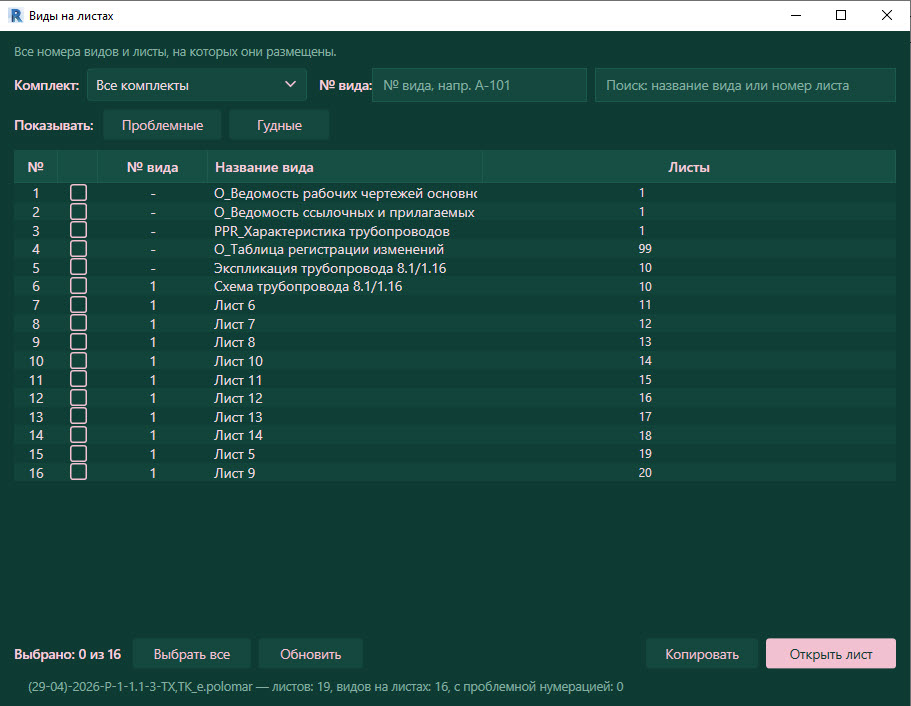
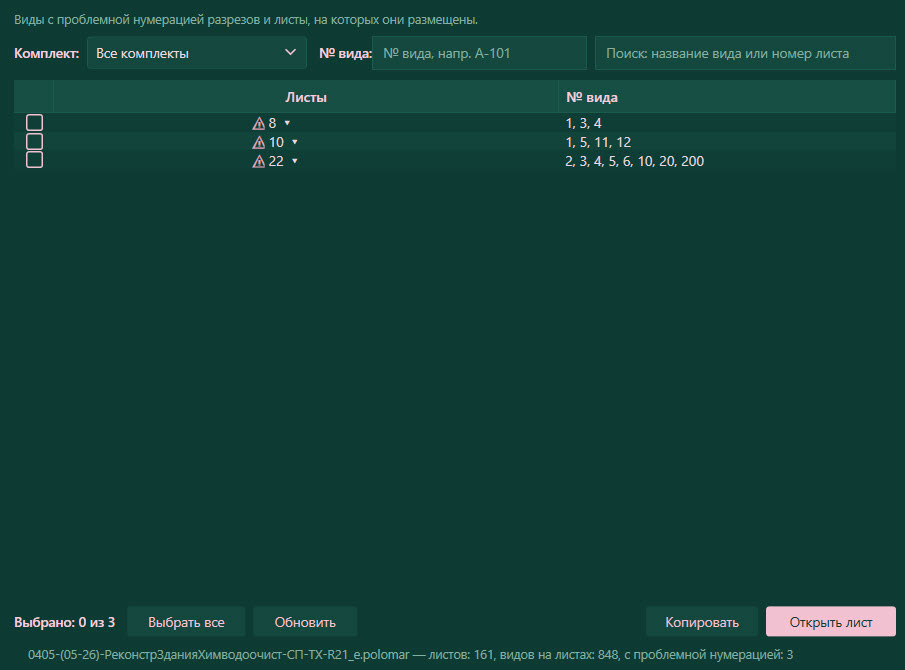
README: new UI screenshot and inherit-elevation toggle states on the ribbon

diff --git a/README.md b/README.md
@@ -4,7 +4,7 @@
 
 ![Интерфейс плагина](SheetViewsMap.jpg)
 
-Пример окна «Виды на листах».
+Окно «Виды на листах»: в таблице — только проблемные листы (`⚠`); у номера каждого листа — стрелка ▾, она раскрывает номера видов, размещённых на этом листе; в колонке «№ вида» — те же номера текстом. Галочками отмечают листы для открытия. Внизу — сводка по модели: сколько листов и видов, сколько с проблемной нумерацией.
 
 Поддерживаемые версии: Revit 2021, 2025.
 
@@ -15,6 +15,10 @@
 - **Настройки** — версия плагина и проверка обновлений с GitHub (обновление скачивается и применяется после закрытия Revit)
 - **Наследовать отметку** — переключатель: держит опцию «Наследовать отметку» на ленте всегда включённой при черчении трубопроводов; состояние сохраняется между сессиями
 - **Открыть окно** — открыть/скрыть окно «Виды на листах»
+
+Так переключатель выглядит на ленте Revit: слева — выключен, справа — включён («: ВКЛ»):
+
+![Наследовать отметку выключена](RibbonOff.jpg) ![Наследовать отметку включена](RibbonOn.jpg)
 
 ### Кнопки в окне
 - **Обновить** — перечитать данные из модели Revit
